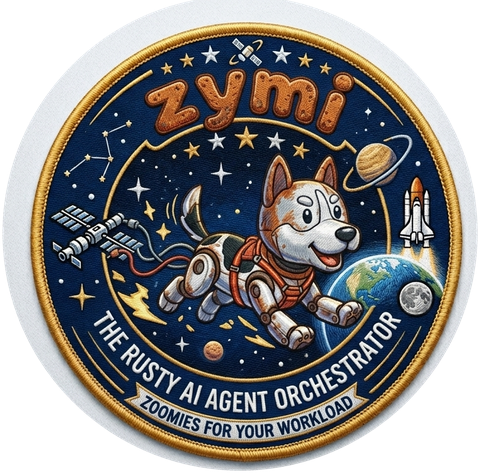
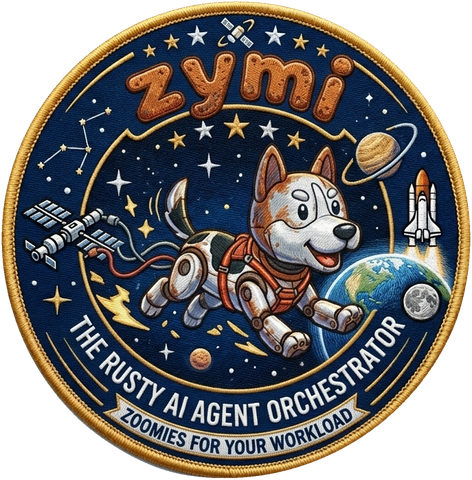
docs(readme): tighten badge crop to the gold rim, drop docs.rs shield
- zymi-badge.png: replace circular-crop-with-halo with a per-angle
  contour fit. The cut now hugs the actual rim (gold where it's
  visible, navy outline where banners cover it) so there's no cream
  highlight ring bleeding onto dark backgrounds.
- Drop the docs.rs shield — we don't publish docs yet.
- Breathe between remaining badges.

diff --git a/README.md b/README.md
@@ -8,9 +8,11 @@
 
 <p align="center">
   <a href="https://pypi.org/project/zymi-core/"><img src="https://img.shields.io/pypi/v/zymi-core.svg?logo=pypi&logoColor=white" alt="PyPI" /></a>
+  &nbsp;
   <a href="https://github.com/metravod/zymi-core/actions/workflows/ci.yml"><img src="https://github.com/metravod/zymi-core/actions/workflows/ci.yml/badge.svg?branch=main" alt="CI" /></a>
-  <a href="https://docs.rs/zymi-core"><img src="https://img.shields.io/docsrs/zymi-core?logo=docsdotrs" alt="docs.rs" /></a>
+  &nbsp;
   <a href="LICENSE"><img src="https://img.shields.io/badge/license-MIT-blue.svg" alt="License: MIT" /></a>
+  &nbsp;
   <a href="https://github.com/metravod/zymi-core/stargazers"><img src="https://img.shields.io/github/stars/metravod/zymi-core.svg?style=social" alt="GitHub stars" /></a>
 </p>
 
